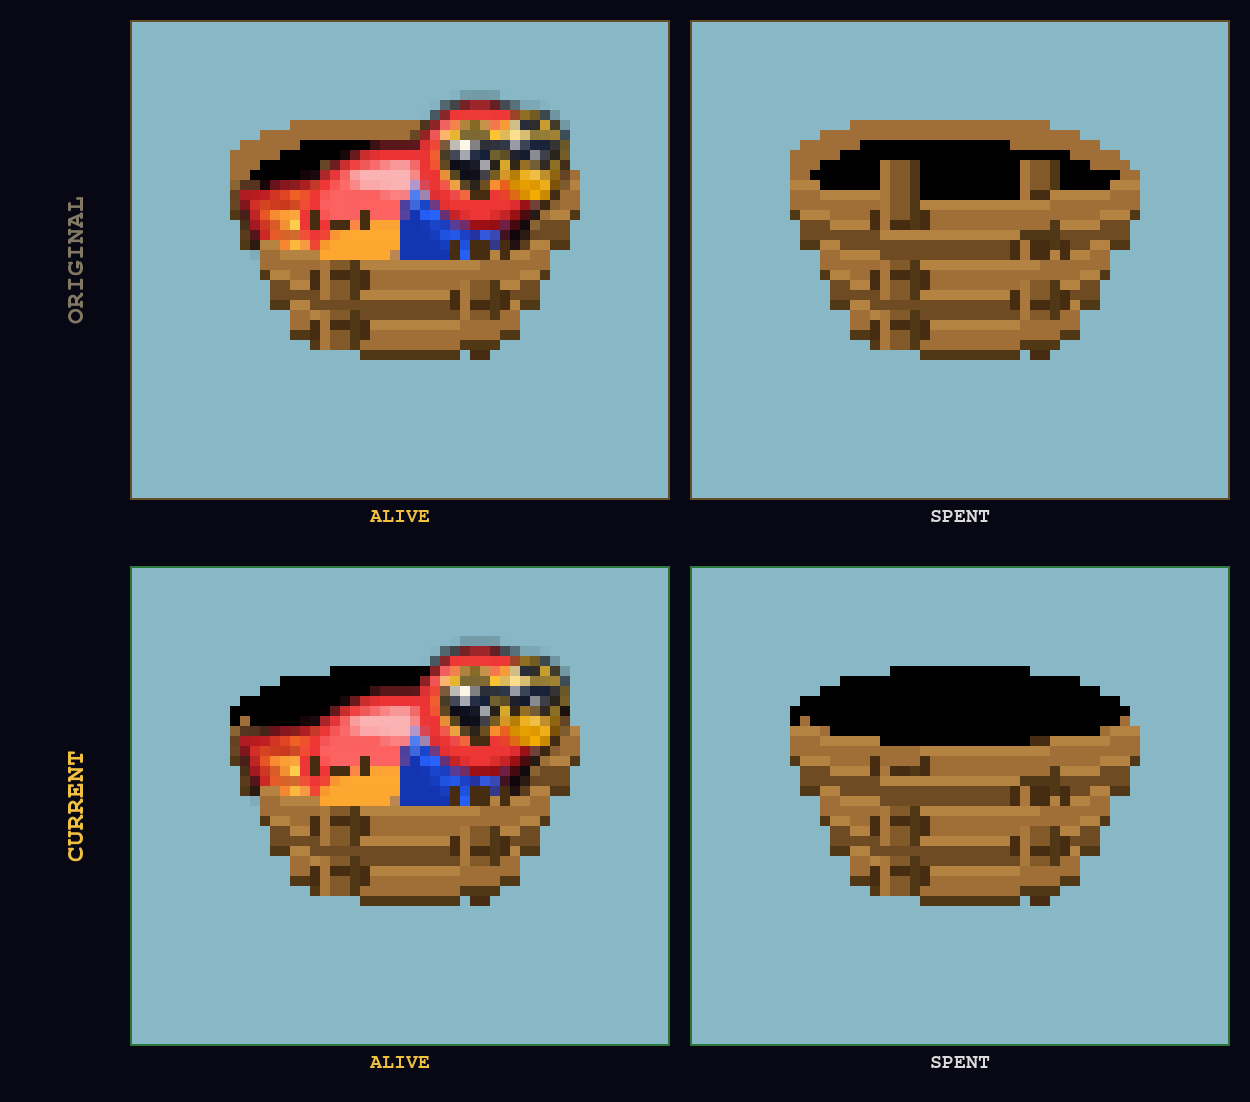
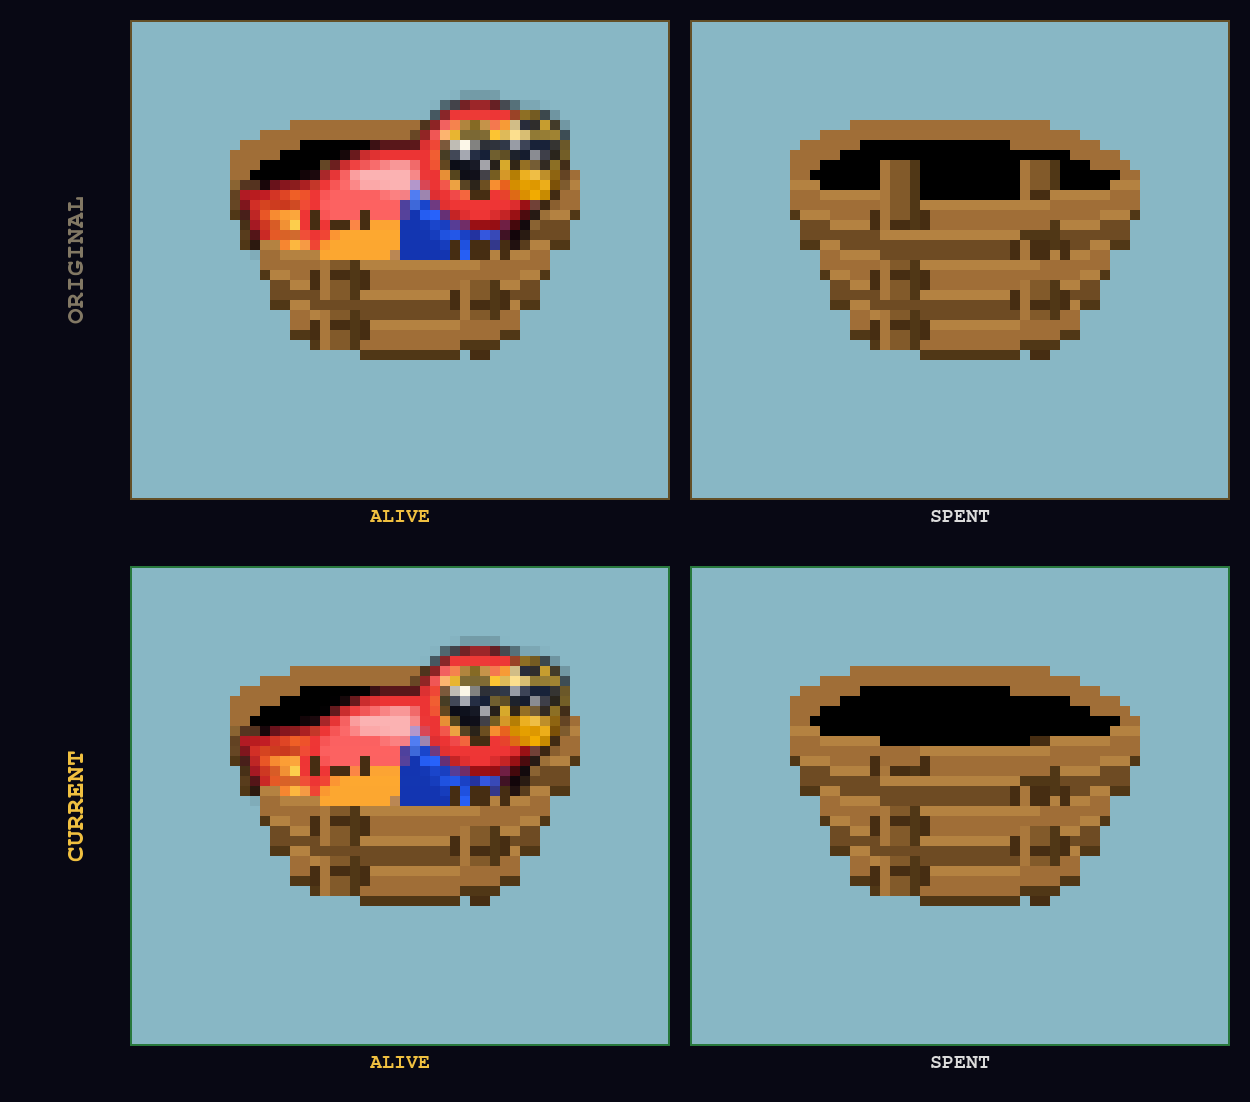
nest: targeted fix for 2 black pixels at top-left of left stick
The arc stop at π leaves a small rendering gap on the bottom-left of
the ellipse rim; paint those 2 rows explicitly so the left stick top
matches the right. Arc and all other rim drawing is unchanged.

Claude-Session: https://claude.ai/code/session_01SYxW5bMXxMEcZRx1arfvCN

Changed region(s): [[0.624, 0.5862, 0.9048, 0.6788], [0.1872, 0.5862, 0.3432, 0.6788]]

diff --git a/game/hud.py b/game/hud.py
@@ -205,16 +205,14 @@ def _nest_draw_slot(surf, cy, alive):
     cx = _NEST_CX
     rx, ry_off, rw, rh = rim_rect
     pygame.draw.ellipse(surf, (0, 0, 0), (rx, cy + ry_off, rw, rh))
-    _cxe = rx + rw * 0.5
-    _cye = cy + ry_off + rh * 0.5
-    _a2  = (rw * 0.5) ** 2
-    _b2  = (rh * 0.5) ** 2
-    for _x in range(rx, rx + rw + 1):
-        _d2 = (_x - _cxe) ** 2
-        if _d2 < _a2:
-            _yb = int(_cye + math.sqrt(_b2 * (1.0 - _d2 / _a2)))
-            surf.set_at((_x, _yb),     _NEST_TWIG_BRIGHT)
-            surf.set_at((_x, _yb - 1), _NEST_TWIG_BRIGHT)
+    pygame.draw.arc(surf, _NEST_TWIG_BRIGHT, (rx, cy + ry_off, rw, rh), 0, math.pi, 2)
+    # The arc stop at π leaves a small gap on the bottom-left of the ellipse rim;
+    # paint those pixels explicitly so the left stick has no black cap above it.
+    _vxL = verts[0]
+    for _dy in (-2, -1):
+        _y = cy + ry_off + rh + _dy
+        for _dx in _NEST_STICK_X_OFF:
+            surf.set_at((_vxL + _dx, _y), _NEST_TWIG_BRIGHT)
     for vx in verts:
         _nest_stick_span(surf, vx, cy + ry_off + rh, cy + stick_bottom)
     _nest_weave(surf, cy, (0, 1), courses, stick_wins)
